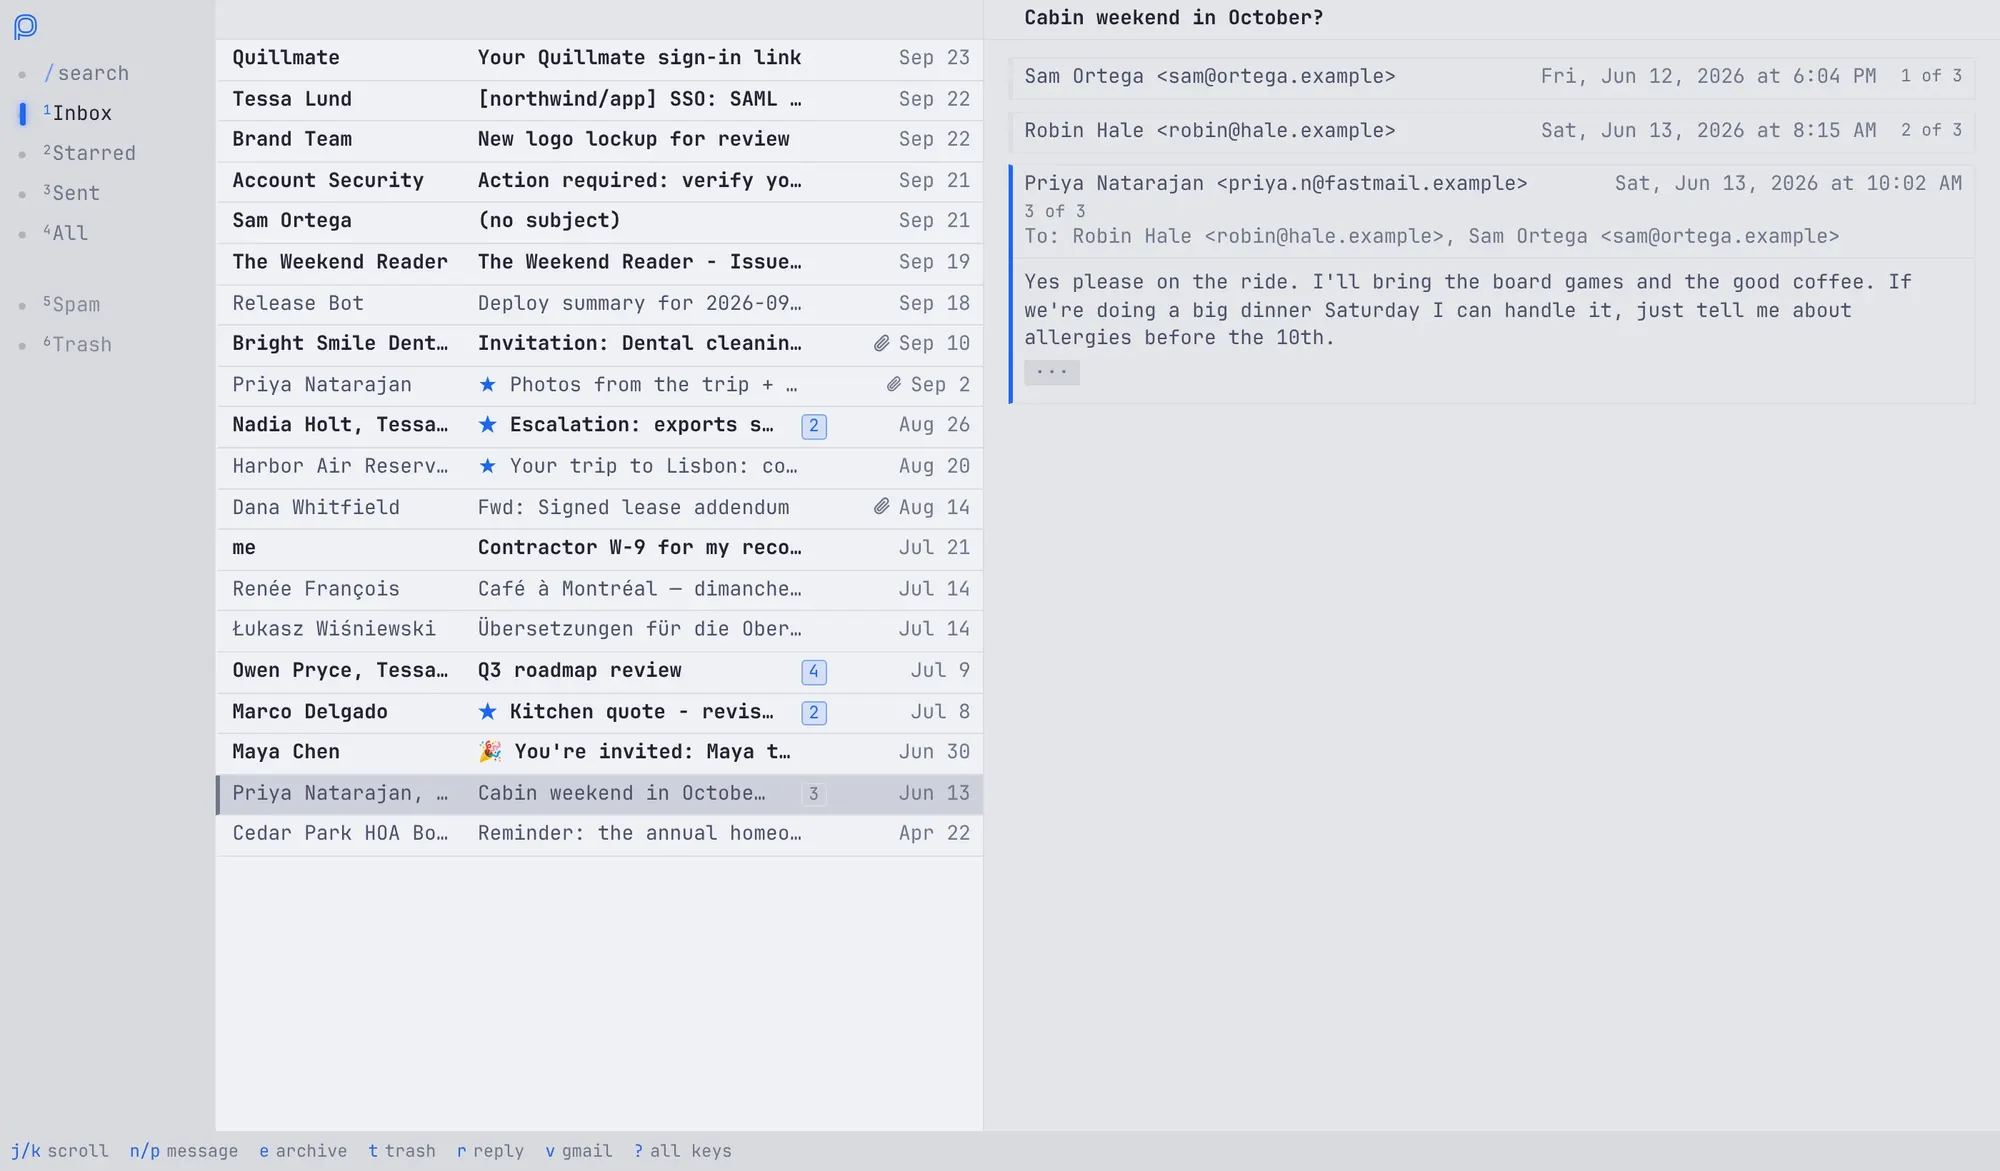
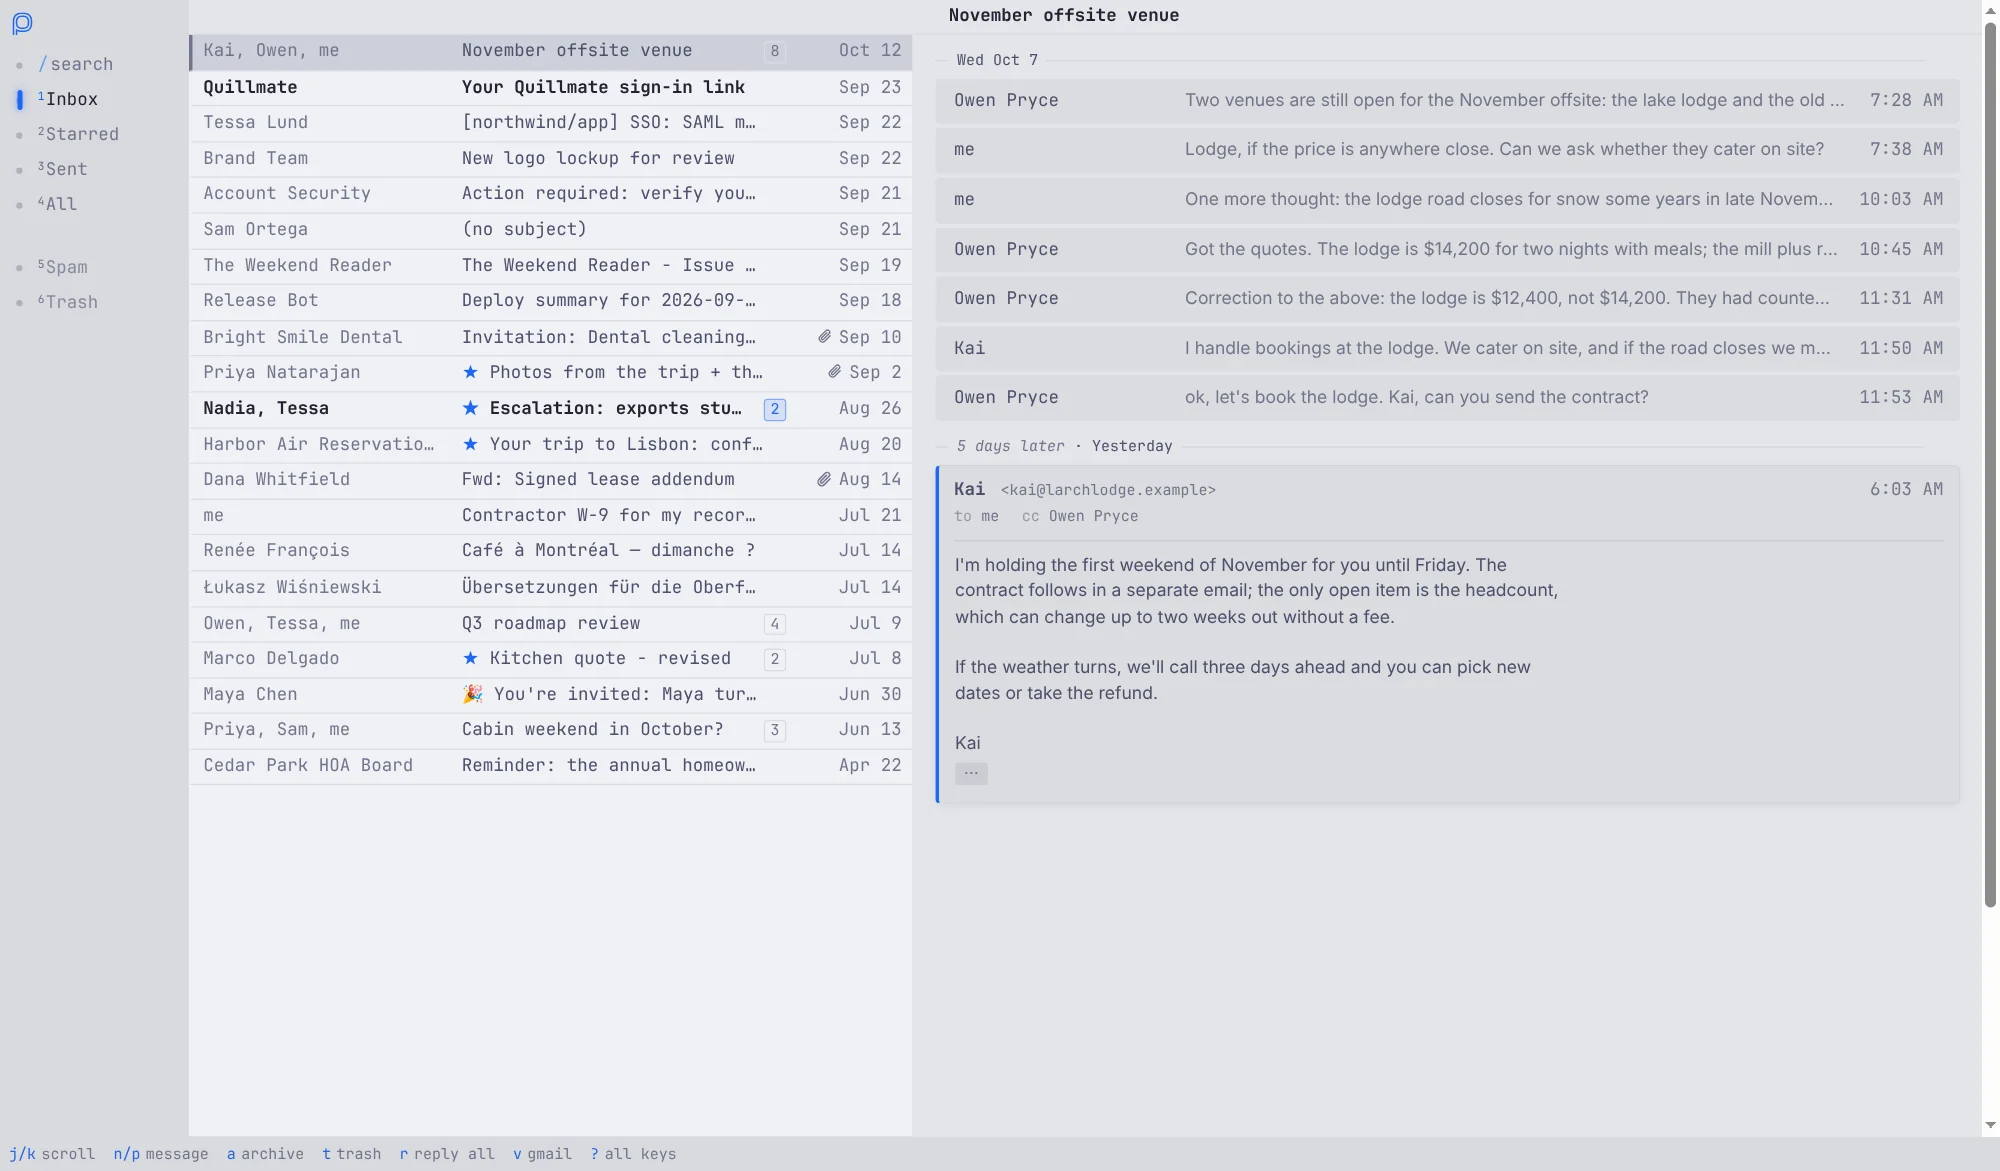
Screenshots of the new thread view: tiles, snippets, day dividers

diff --git a/index.html b/index.html
@@ -70,7 +70,7 @@
           <source media="(max-width: 560px) and (prefers-color-scheme: light)" srcset="themes/rose-pine-narrow.webp">
           <source media="(max-width: 560px)" srcset="themes/tokyo-night-narrow.webp">
           <source media="(prefers-color-scheme: light)" srcset="themes/rose-pine-app-s.webp 900w, themes/rose-pine-app.webp 2000w" sizes="(max-width: 980px) 100vw, 66vw">
-          <img class="shot" srcset="themes/tokyo-night-app-s.webp 900w, themes/tokyo-night-app.webp 2000w" sizes="(max-width: 980px) 100vw, 66vw" src="themes/tokyo-night-app.webp" alt="A screenshot of pneu: the thread “Cabin weekend in October?” beside the inbox, in the current Omarchy theme" fetchpriority="high">
+          <img class="shot" srcset="themes/tokyo-night-app-s.webp 900w, themes/tokyo-night-app.webp 2000w" sizes="(max-width: 980px) 100vw, 66vw" src="themes/tokyo-night-app.webp" alt="A screenshot of pneu: the eight-message thread “November offsite venue” beside the inbox, in the current Omarchy theme" fetchpriority="high">
         </picture>
         <picture class="layer"><img class="shot" alt=""></picture>
         <i class="mk" data-k="tl"></i><i class="mk" data-k="tr"></i><i class="mk" data-k="bl"></i><i class="mk" data-k="br"></i>
